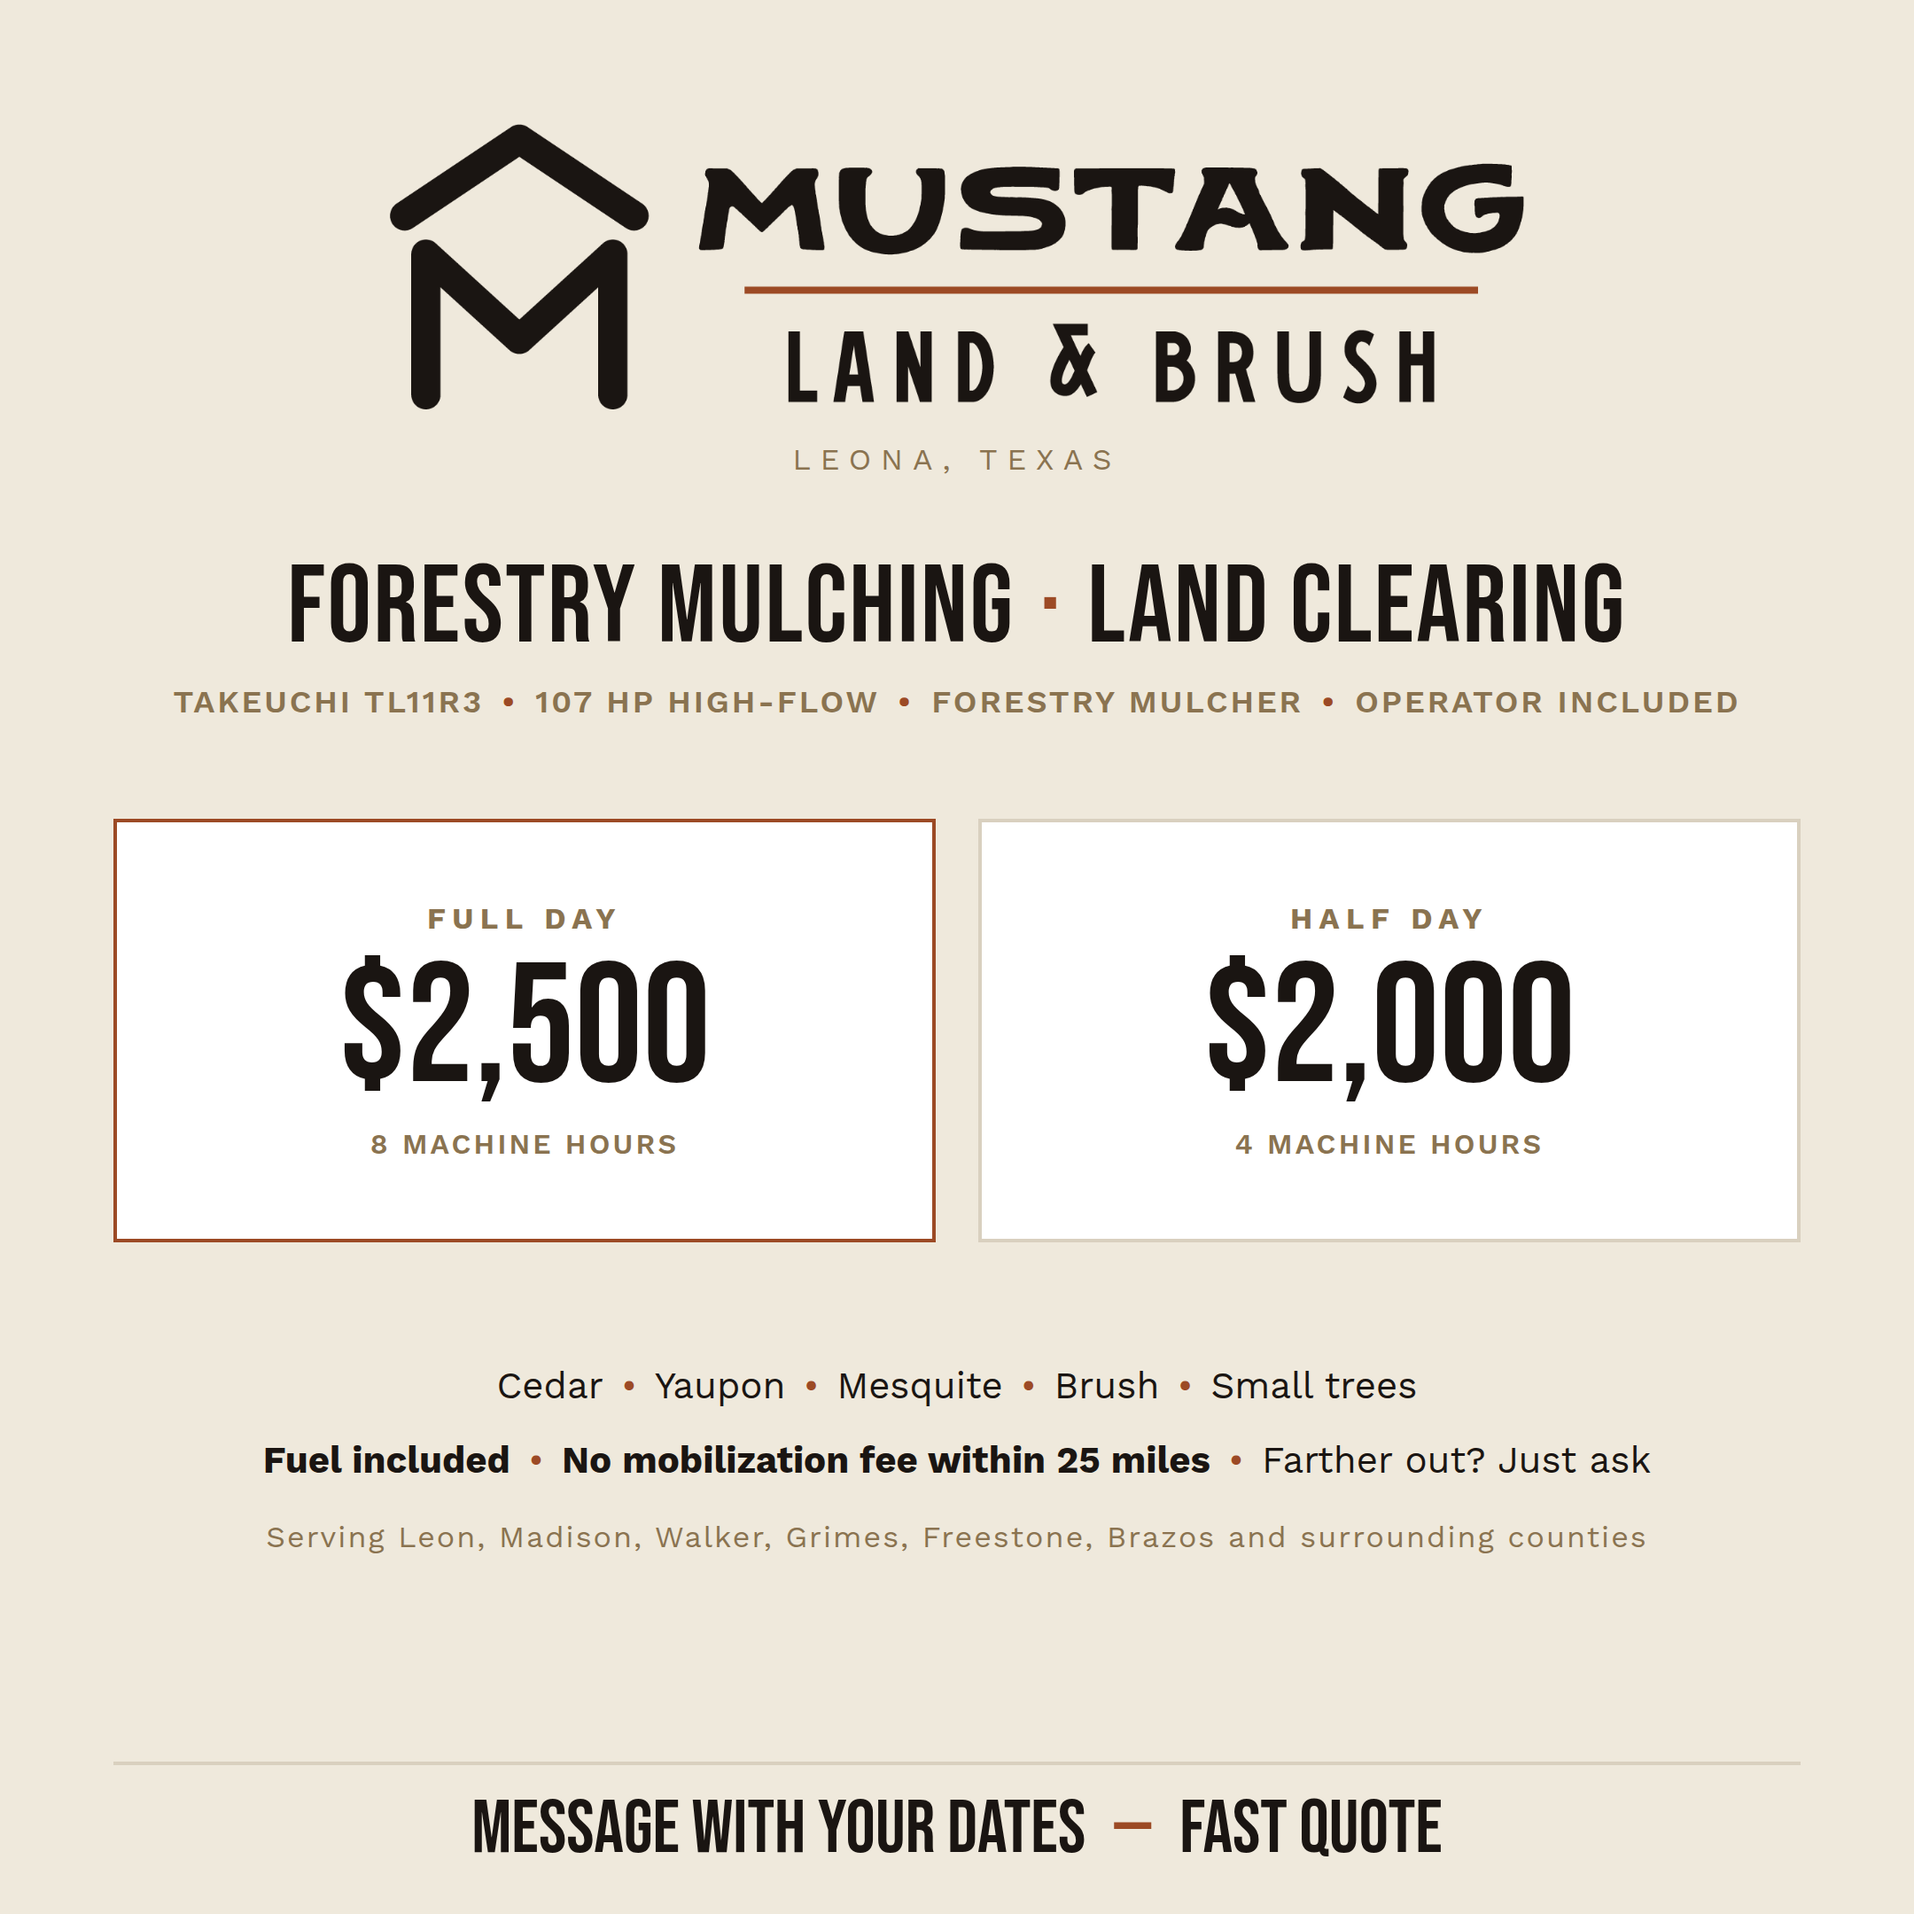
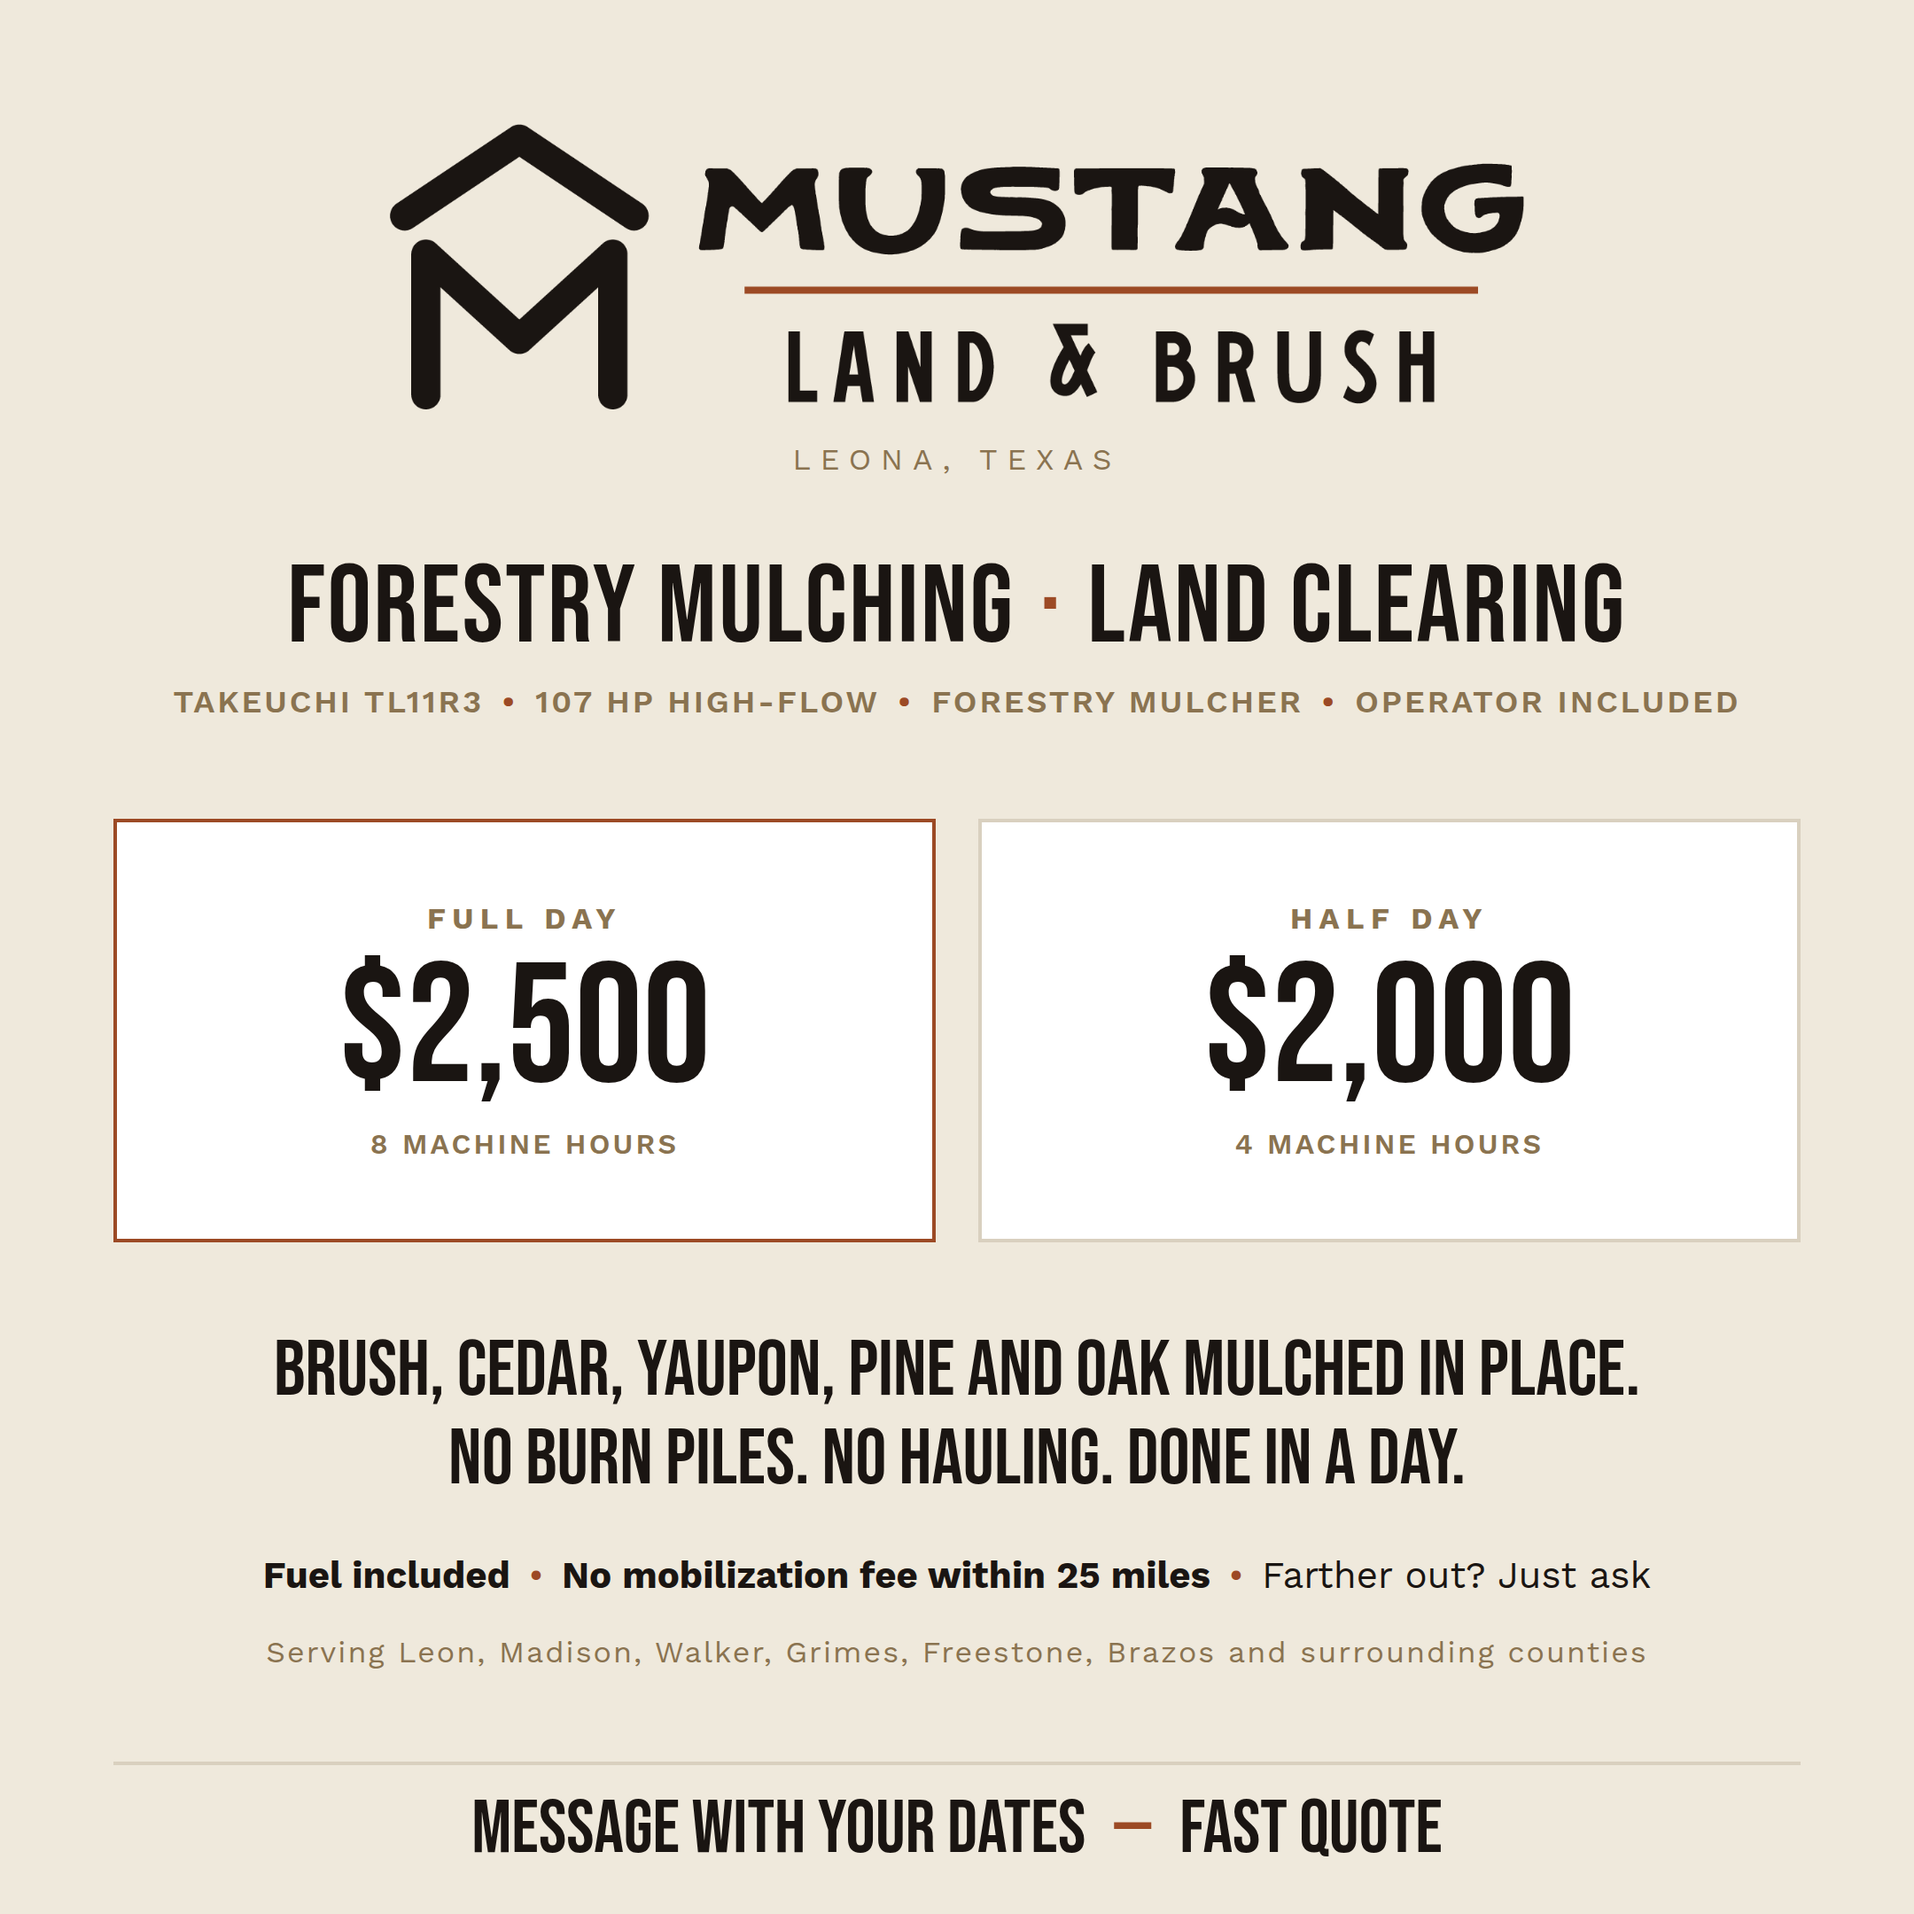
Mustang cards: outcome line instead of species list
Claude-Session: https://claude.ai/code/session_01MjBdAn1tqXy1S9X7E6qMHj

Changed region(s): [[0.1241, 0.6824, 0.8685, 0.8685]]

diff --git a/marketing/mustang/mustang-card-phone.html b/marketing/mustang/mustang-card-phone.html
@@ -22,9 +22,10 @@ html,body{width:1080px;height:1080px;background:var(--bg);color:var(--bone);font
 .line{margin-top:34px;text-align:center;border-top:3px solid var(--rust);border-bottom:3px solid var(--rust);padding:16px 0}
 .line .big{font-size:40px;line-height:1;color:var(--bone)}
 .line .small{font-size:16px;font-weight:600;letter-spacing:.14em;text-transform:uppercase;margin-top:8px;color:var(--tan)}
-.terms{margin-top:60px;text-align:center;font-size:21px;line-height:2;color:var(--bone)}
+.terms{margin-top:48px;text-align:center;font-size:21px;line-height:2;color:var(--bone)}
 .terms .dot{color:var(--rust);padding:0 10px}
 .terms b{font-weight:700}
+.terms .result{display:inline-block;font-family:"Bebas Neue","Arial Narrow",Impact,sans-serif;font-size:44px;line-height:1.15;color:var(--bone);margin-bottom:18px}
 .terms .muted{color:var(--tan);font-size:17px;letter-spacing:.06em}
 .cta{margin-top:auto;margin-bottom:26px;padding-top:16px;border-top:2px solid var(--rule);text-align:center;font-size:42px;line-height:1;color:var(--bone)}
 .cta .sep{color:var(--rust);padding:0 16px}
@@ -40,7 +41,7 @@ html,body{width:1080px;height:1080px;background:var(--bg);color:var(--bone);font
     <div class="rate"><div class="lbl">Half day</div><div class="amt bebas">$2,000</div><div class="sub">4 machine hours</div></div>
   </div>
   <div class="terms">
-    Cedar<span class="dot">•</span>Yaupon<span class="dot">•</span>Mesquite<span class="dot">•</span>Brush<span class="dot">•</span>Small trees<br>
+    <span class="result">Brush, cedar, yaupon, pine and oak mulched in place.<br>No burn piles. No hauling. Done in a day.</span><br>
         <b>Fuel included</b><span class="dot">•</span><b>No mobilization fee within 25 miles</b><span class="dot">•</span>Farther out? Just ask<br>
     <span class="muted">Serving Leon, Madison, Walker, Grimes, Freestone, Brazos and surrounding counties</span>
   </div>

diff --git a/marketing/mustang/mustang-card.html b/marketing/mustang/mustang-card.html
@@ -22,9 +22,10 @@ html,body{width:1080px;height:1080px;background:var(--bg);color:var(--bone);font
 .line{margin-top:34px;text-align:center;border-top:3px solid var(--rust);border-bottom:3px solid var(--rust);padding:16px 0}
 .line .big{font-size:40px;line-height:1;color:var(--bone)}
 .line .small{font-size:16px;font-weight:600;letter-spacing:.14em;text-transform:uppercase;margin-top:8px;color:var(--tan)}
-.terms{margin-top:60px;text-align:center;font-size:21px;line-height:2;color:var(--bone)}
+.terms{margin-top:48px;text-align:center;font-size:21px;line-height:2;color:var(--bone)}
 .terms .dot{color:var(--rust);padding:0 10px}
 .terms b{font-weight:700}
+.terms .result{display:inline-block;font-family:"Bebas Neue","Arial Narrow",Impact,sans-serif;font-size:44px;line-height:1.15;color:var(--bone);margin-bottom:18px}
 .terms .muted{color:var(--tan);font-size:17px;letter-spacing:.06em}
 .cta{margin-top:auto;margin-bottom:26px;padding-top:16px;border-top:2px solid var(--rule);text-align:center;font-size:42px;line-height:1;color:var(--bone)}
 .cta .sep{color:var(--rust);padding:0 16px}
@@ -40,7 +41,7 @@ html,body{width:1080px;height:1080px;background:var(--bg);color:var(--bone);font
     <div class="rate"><div class="lbl">Half day</div><div class="amt bebas">$2,000</div><div class="sub">4 machine hours</div></div>
   </div>
   <div class="terms">
-    Cedar<span class="dot">•</span>Yaupon<span class="dot">•</span>Mesquite<span class="dot">•</span>Brush<span class="dot">•</span>Small trees<br>
+    <span class="result">Brush, cedar, yaupon, pine and oak mulched in place.<br>No burn piles. No hauling. Done in a day.</span><br>
         <b>Fuel included</b><span class="dot">•</span><b>No mobilization fee within 25 miles</b><span class="dot">•</span>Farther out? Just ask<br>
     <span class="muted">Serving Leon, Madison, Walker, Grimes, Freestone, Brazos and surrounding counties</span>
   </div>
